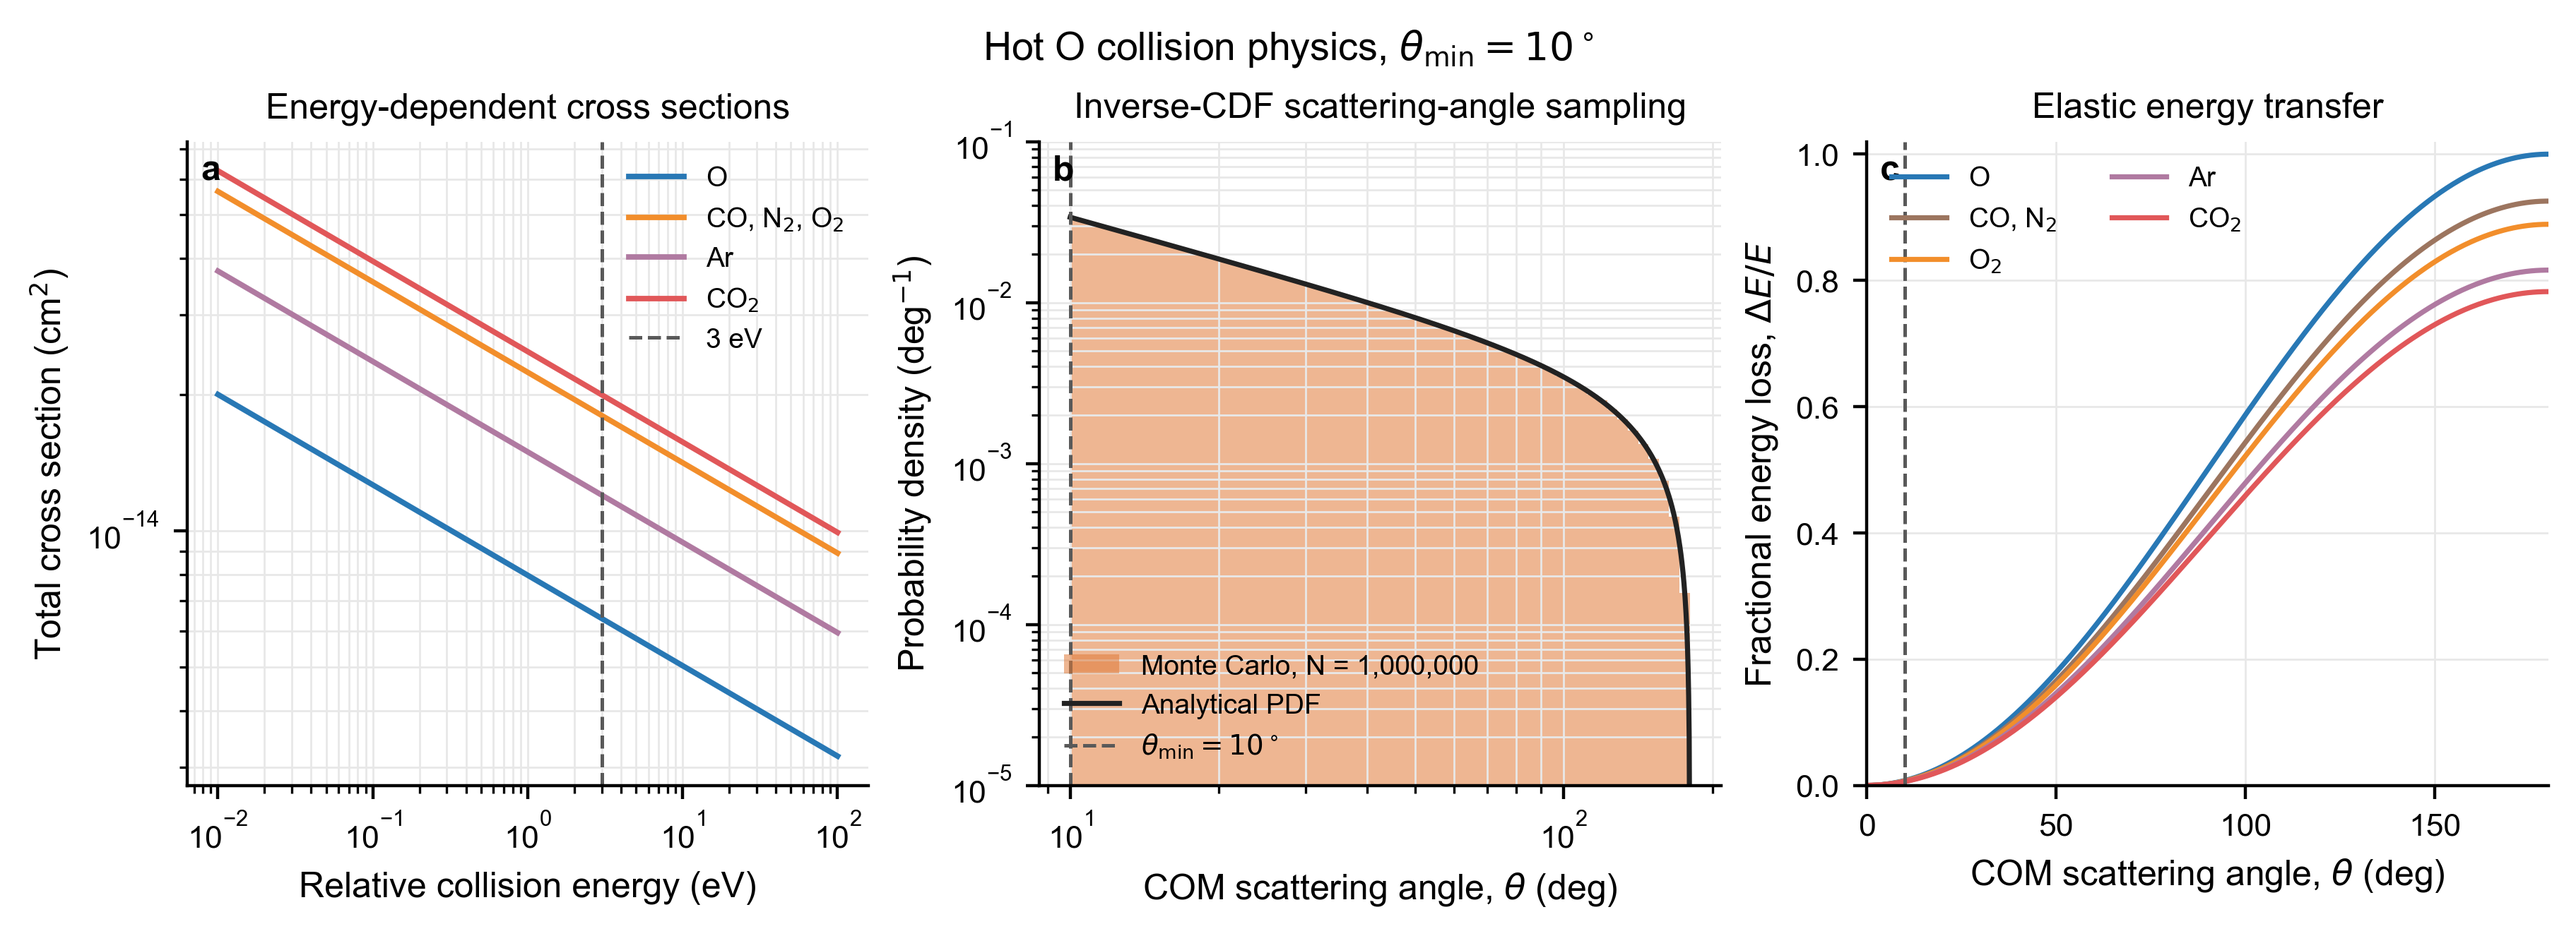
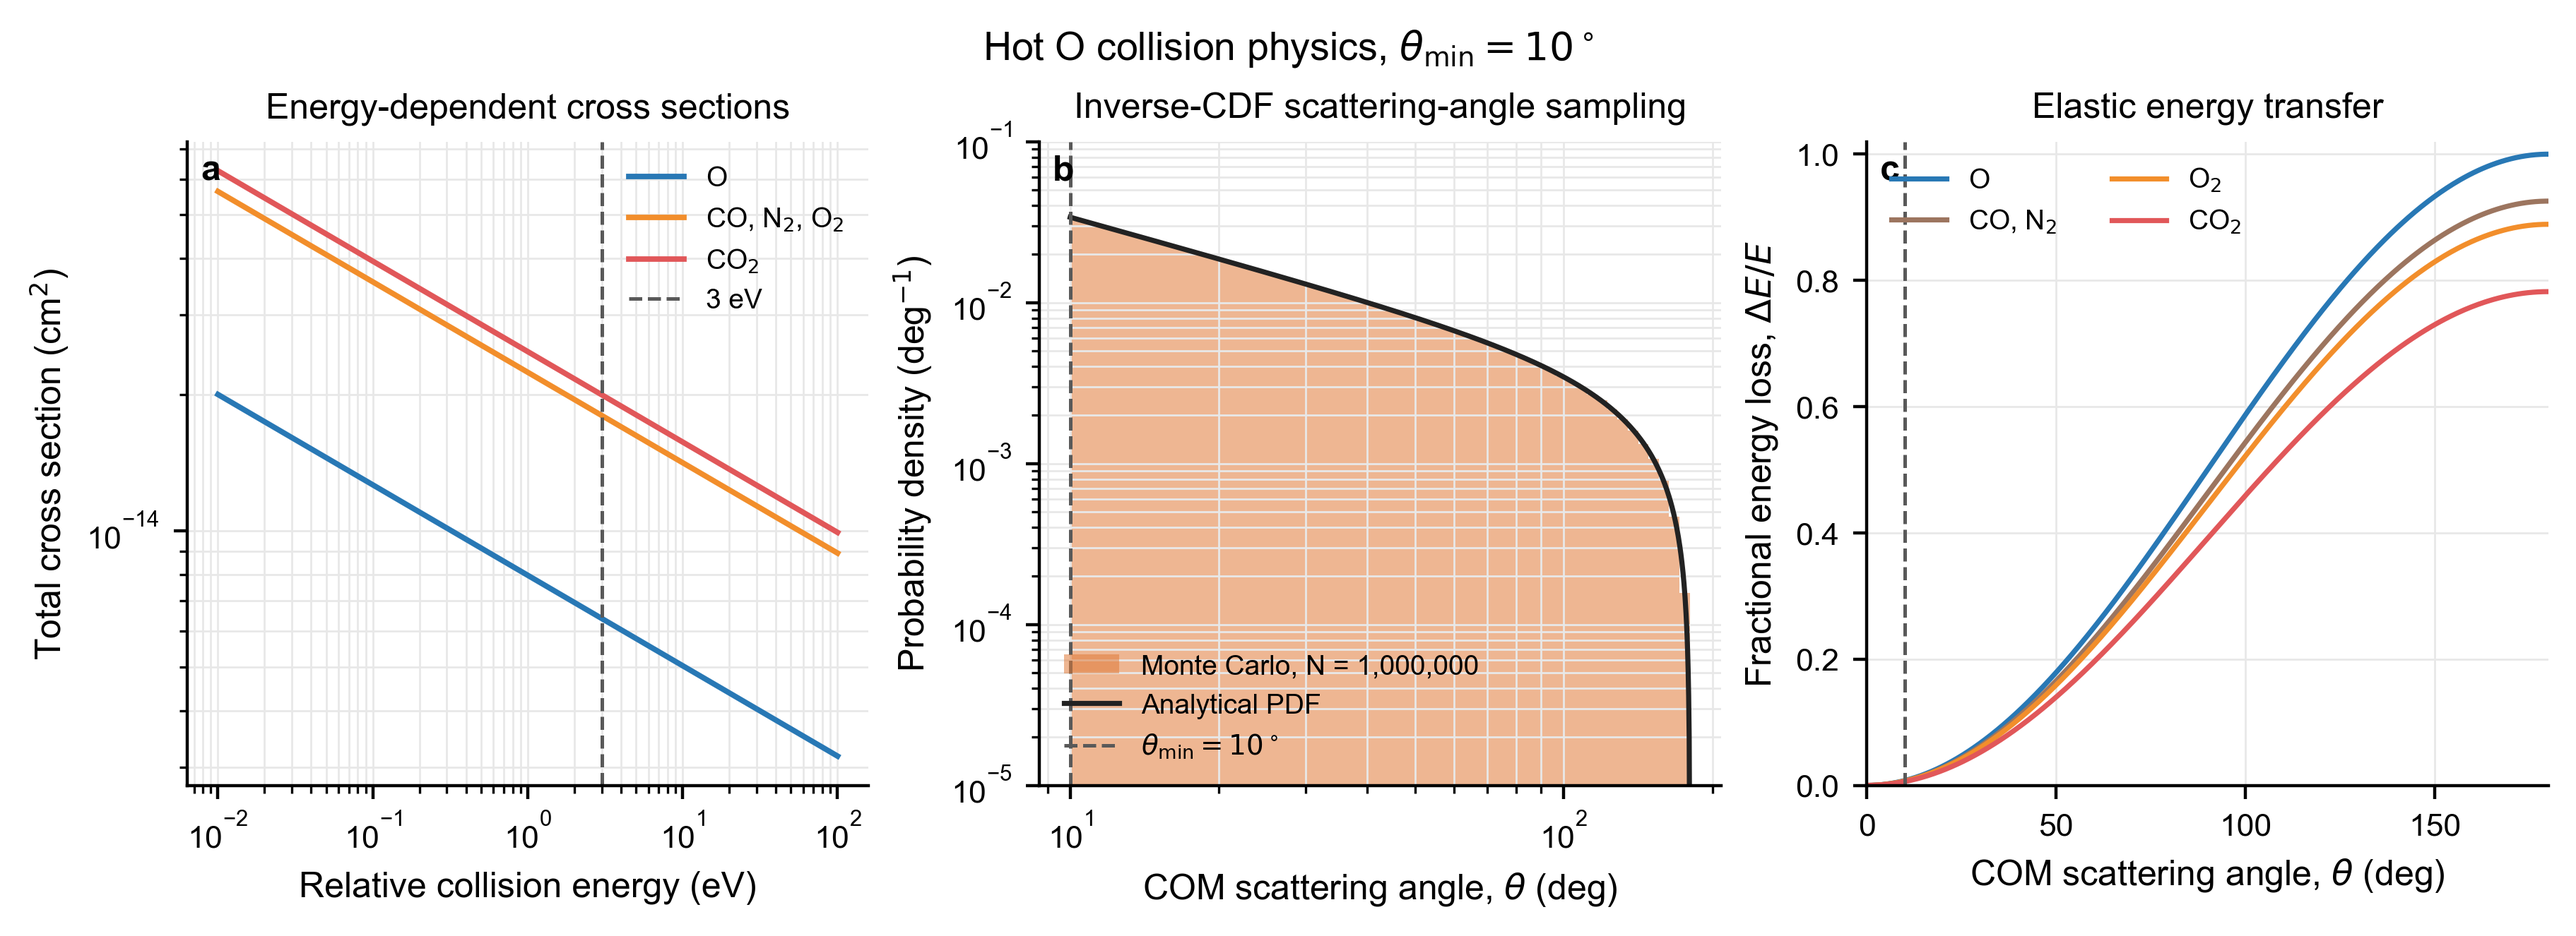
Remove unavailable argon collision target

diff --git a/examples/plot_collision_physics.py b/examples/plot_collision_physics.py
@@ -27,7 +27,6 @@ TARGETS = {
     "CO": (28.0, 1.8e-14),
     r"N$_2$": (28.0, 1.8e-14),
     r"O$_2$": (32.0, 1.8e-14),
-    "Ar": (40.0, 1.2e-14),
     r"CO$_2$": (44.0, 2.0e-14),
 }
 
@@ -36,7 +35,6 @@ COLORS = {
     "CO": "#9C755F",
     r"N$_2$": "#59A14F",
     r"O$_2$": "#F28E2B",
-    "Ar": "#B07AA1",
     r"CO$_2$": "#E15759",
 }
 
@@ -133,13 +131,11 @@ def make_figure() -> plt.Figure:
     cross_section_groups = {
         "O": TARGETS["O"],
         r"CO, N$_2$, O$_2$": TARGETS["CO"],
-        "Ar": TARGETS["Ar"],
         r"CO$_2$": TARGETS[r"CO$_2$"],
     }
     cross_section_colors = {
         "O": COLORS["O"],
         r"CO, N$_2$, O$_2$": COLORS[r"O$_2$"],
-        "Ar": COLORS["Ar"],
         r"CO$_2$": COLORS[r"CO$_2$"],
     }
     for species, (_, sigma_3ev_cm2) in cross_section_groups.items():
@@ -199,14 +195,12 @@ def make_figure() -> plt.Figure:
         "O": TARGETS["O"][0],
         r"CO, N$_2$": TARGETS["CO"][0],
         r"O$_2$": TARGETS[r"O$_2$"][0],
-        "Ar": TARGETS["Ar"][0],
         r"CO$_2$": TARGETS[r"CO$_2$"][0],
     }
     energy_loss_colors = {
         "O": COLORS["O"],
         r"CO, N$_2$": COLORS["CO"],
         r"O$_2$": COLORS[r"O$_2$"],
-        "Ar": COLORS["Ar"],
         r"CO$_2$": COLORS[r"CO$_2$"],
     }
     for species, mass_amu in energy_loss_groups.items():
